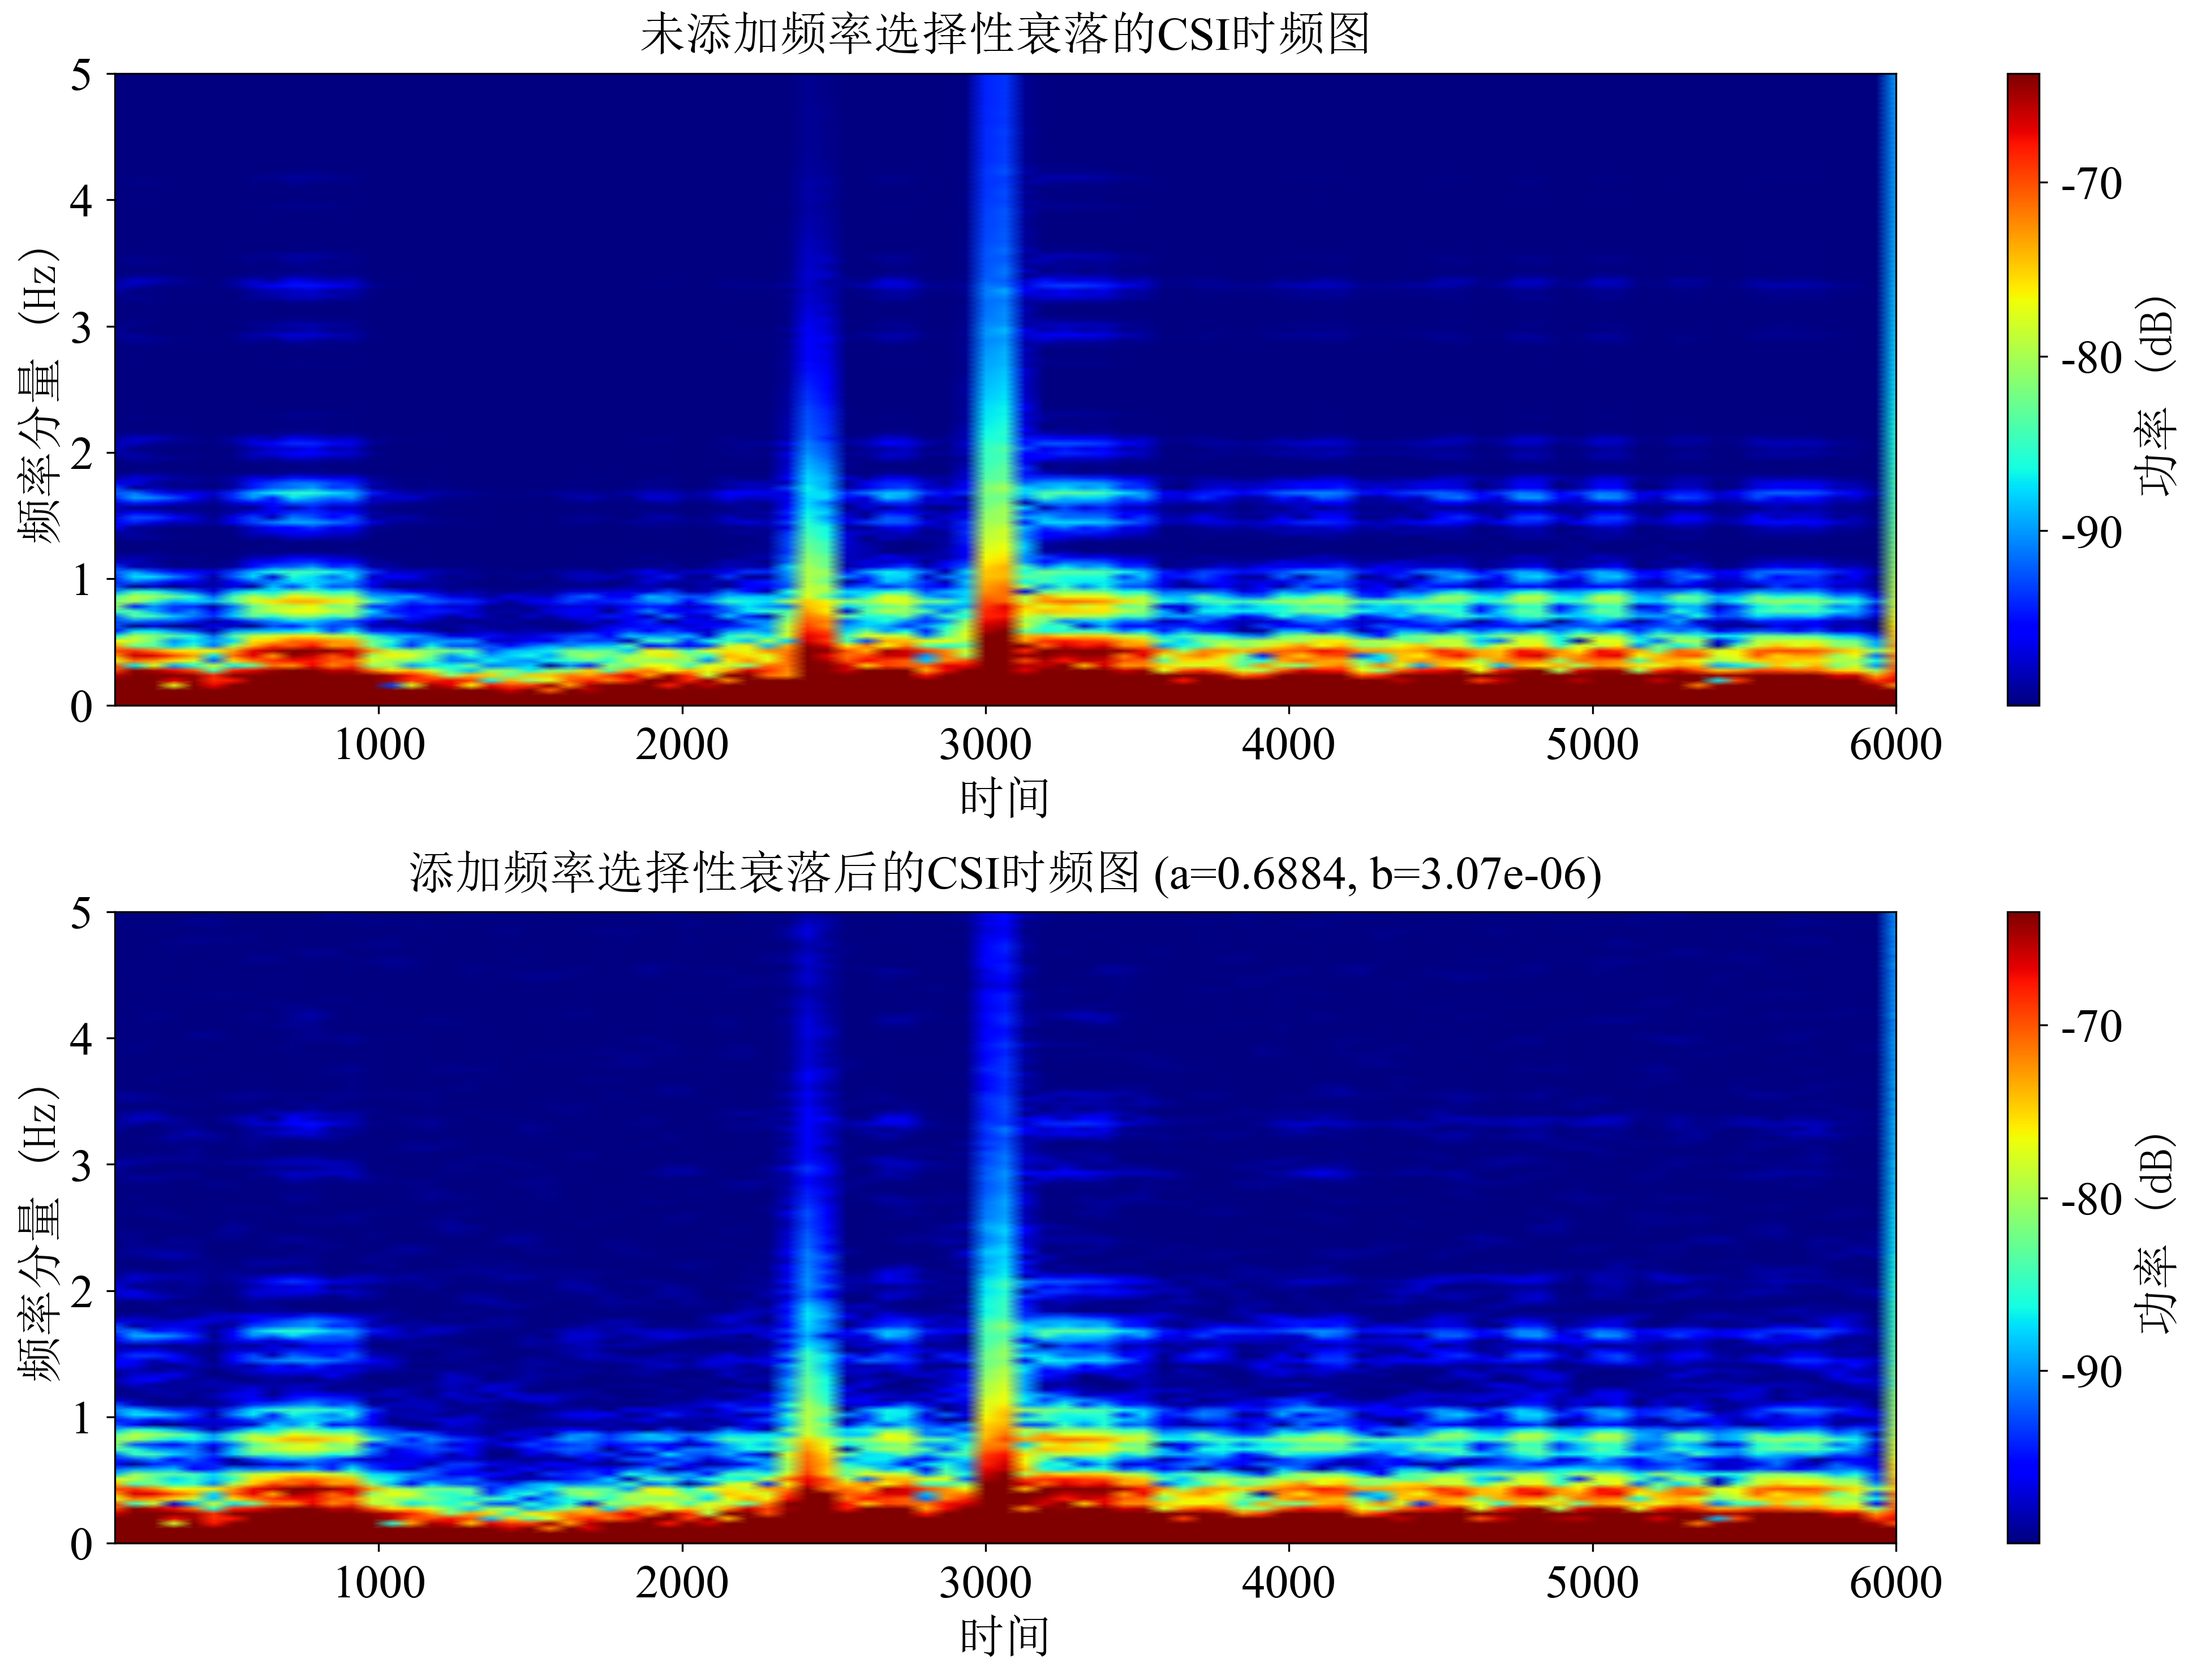
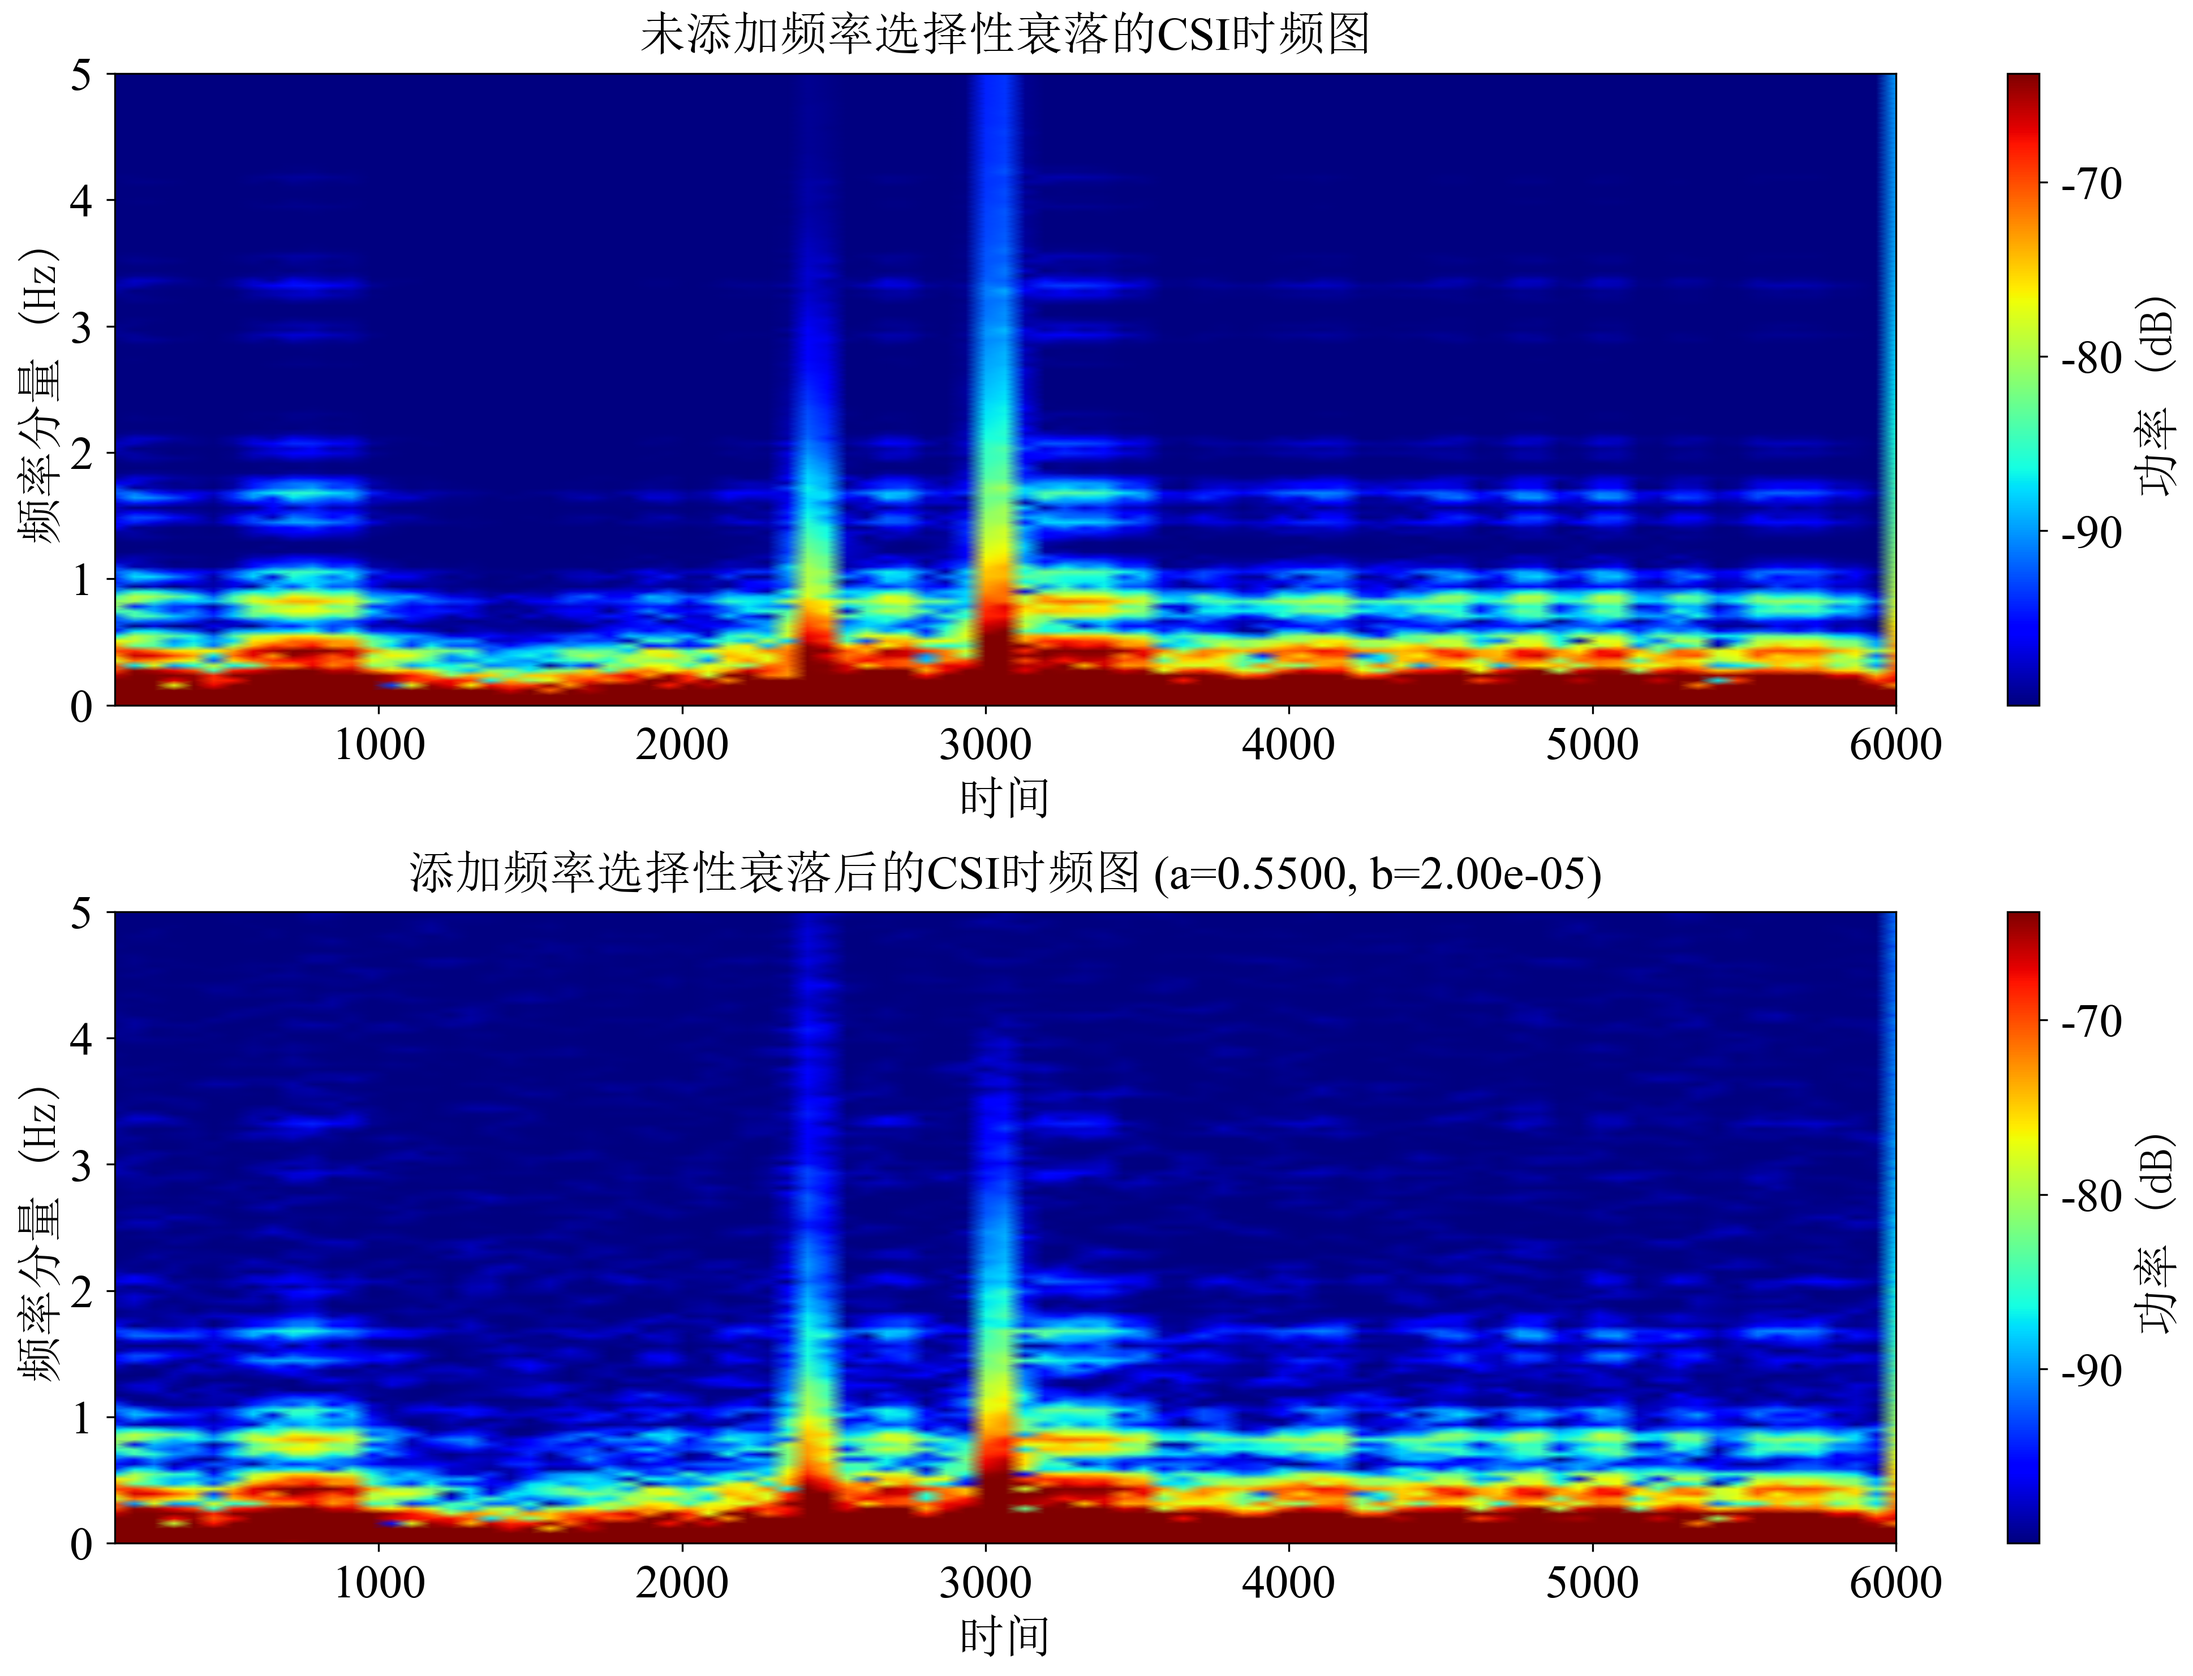
Research1 修改

diff --git a/PreProcess/CSIProcess2.py b/PreProcess/CSIProcess2.py
@@ -534,7 +534,7 @@ def plot_frequency_selective_fading_comparison(data_path='../RawData/source_env0
 
 
 def plot_multipath_fading_comparison(data_path='../RawData/source_env0_env1_data.pt',
-                                     sample_index=132, num_paths=5, rician_k_db=5.0,
+                                     sample_index=132, num_paths=3, rician_k_db=3.0,
                                      save_path='./preprocess/multipath_fading_comparison.png'):
     """
     绘制多径衰落增强前后的对比图（科研论文标准）
@@ -901,8 +901,8 @@ if __name__ == '__main__':
     plot_multipath_fading_comparison(
         data_path=data_path,
         sample_index=132,
-        num_paths=5,
-        rician_k_db=5.0,
+        num_paths=3,
+        rician_k_db=3.0,
         save_path=os.path.join(output_dir, 'multipath_fading_comparison.png')
     )
     print("✓ 多径衰落对比图生成成功！")
@@ -915,8 +915,8 @@ if __name__ == '__main__':
     plot_frequency_selective_fading_comparison(
         data_path=data_path,
         sample_index=132,
-        a=None,  # 随机采样
-        b=None,  # 随机采样
+        a=0.55,  # 基础衰减系数（中等强度）范围 [0.5, 1.0]
+        b=2.0e-5,  # 线性衰减斜率（中等偏大值）范围 [0.1×10^-5, 0.5×10^-5]
         save_path=os.path.join(output_dir, 'frequency_selective_fading_comparison.png')
     )
     print("✓ 频率选择性衰落对比图生成成功！")
